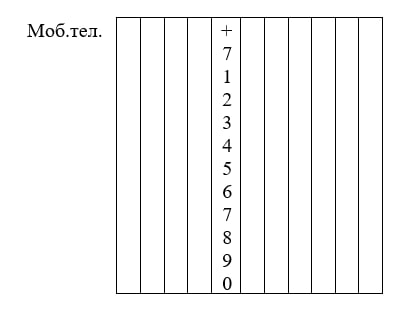
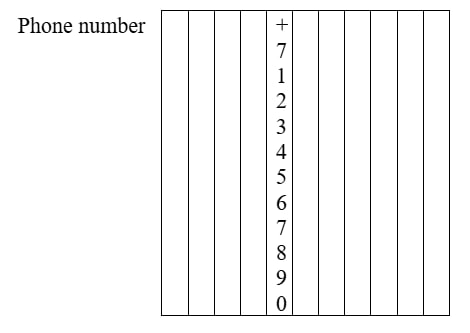
done

Changed region(s): [[0.0312, 0.0312, 0.9664, 0.9688]]

diff --git a/index.md b/index.md
@@ -182,7 +182,7 @@ Then, 4 steps later, it uploads the document to Google Drive. It sees the phone 
 >> - From: **Ivanov Ivan Ivanovich**
 >> - Passport: **RF No. 1234 567890**, issued by **GU MVD RUSSIA FOR MOSCOW, 01.01.2015**, division code **123-456**
 >> - Email: **ivanivanov@gmail.com** ✅
->> - Mob.tel: **1234567890** ✅
+>> - Phone number: **1234567890** ✅
 >>
 >> Scrolling down to check bank account details:
 
